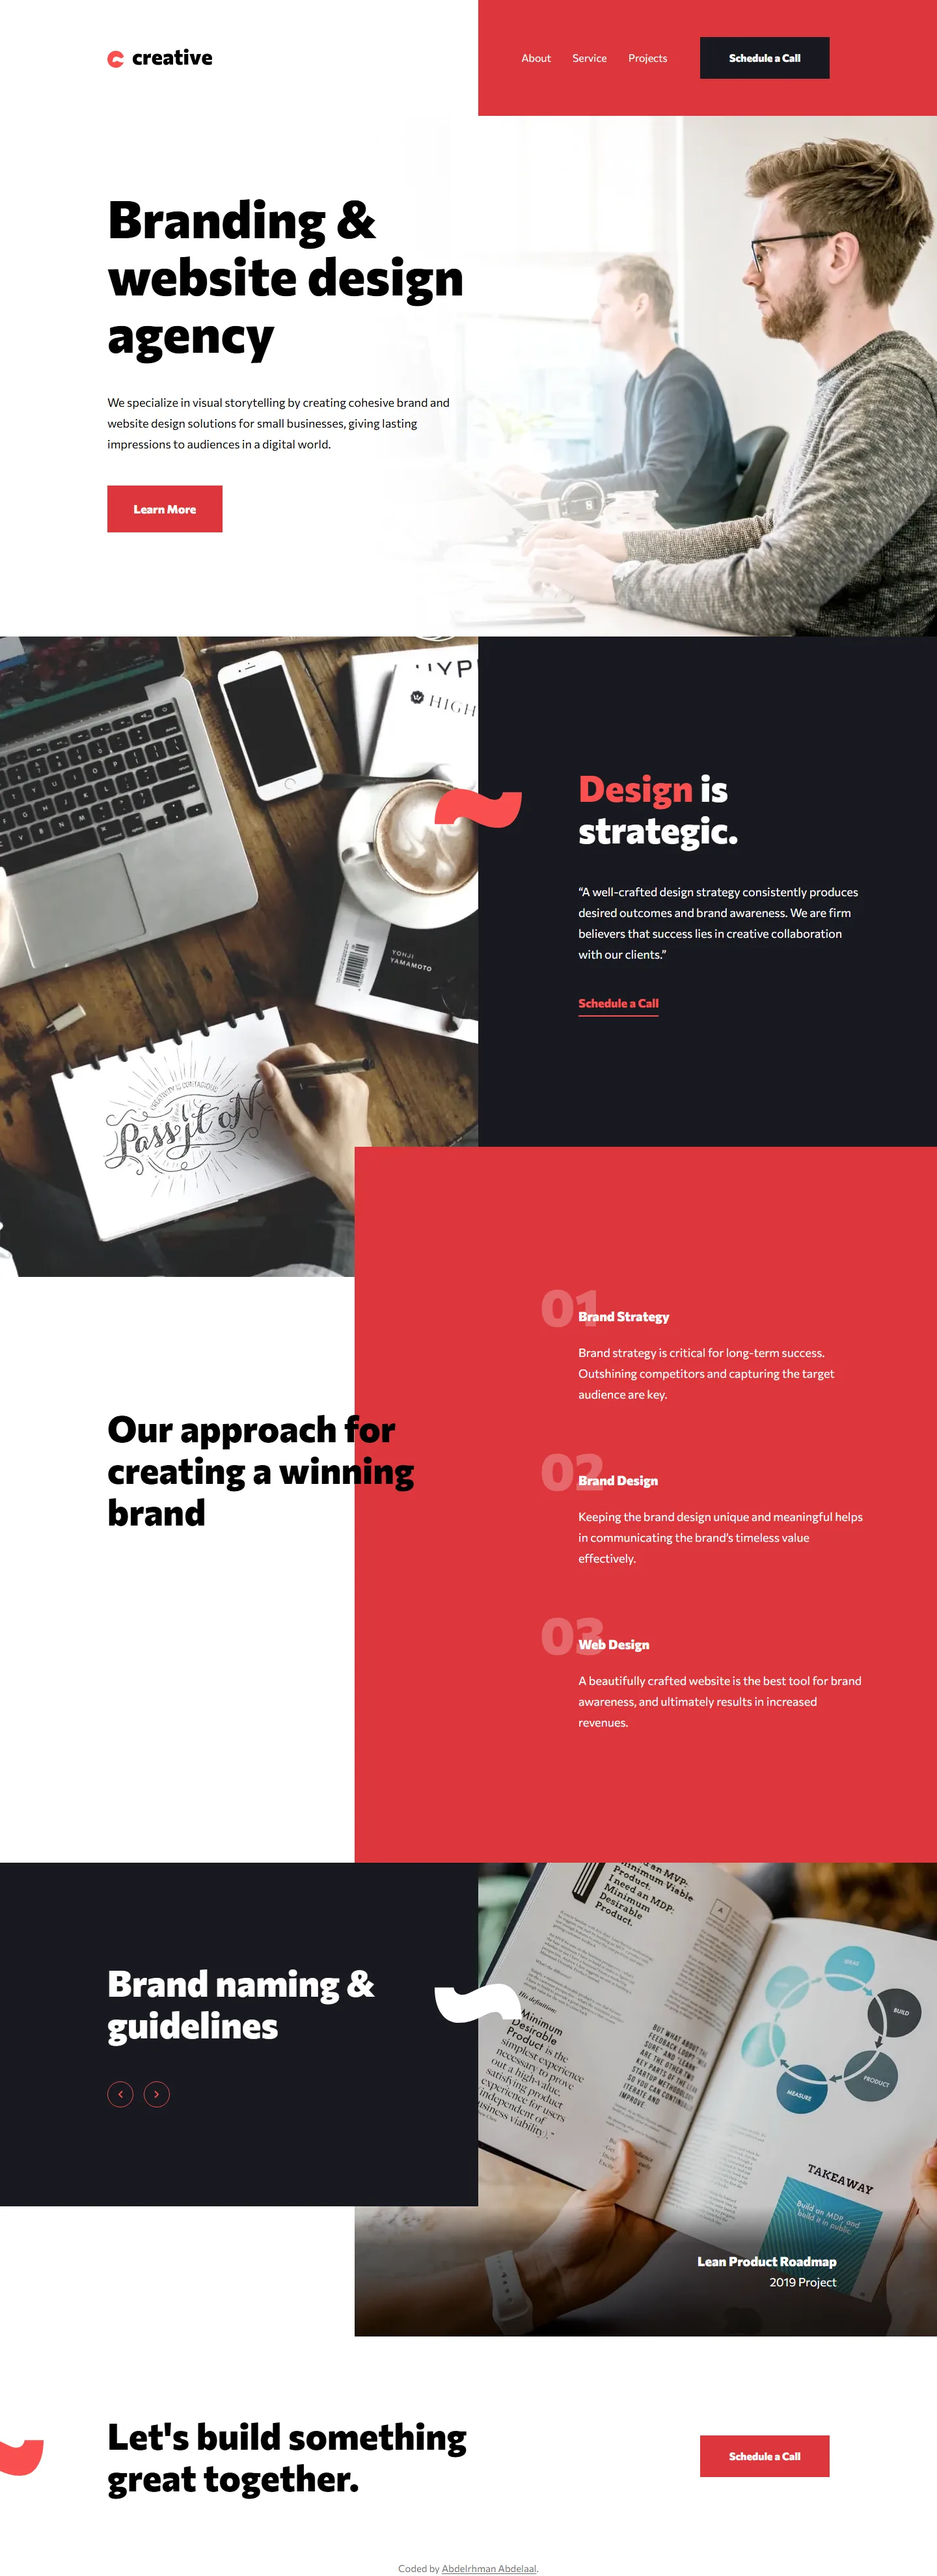
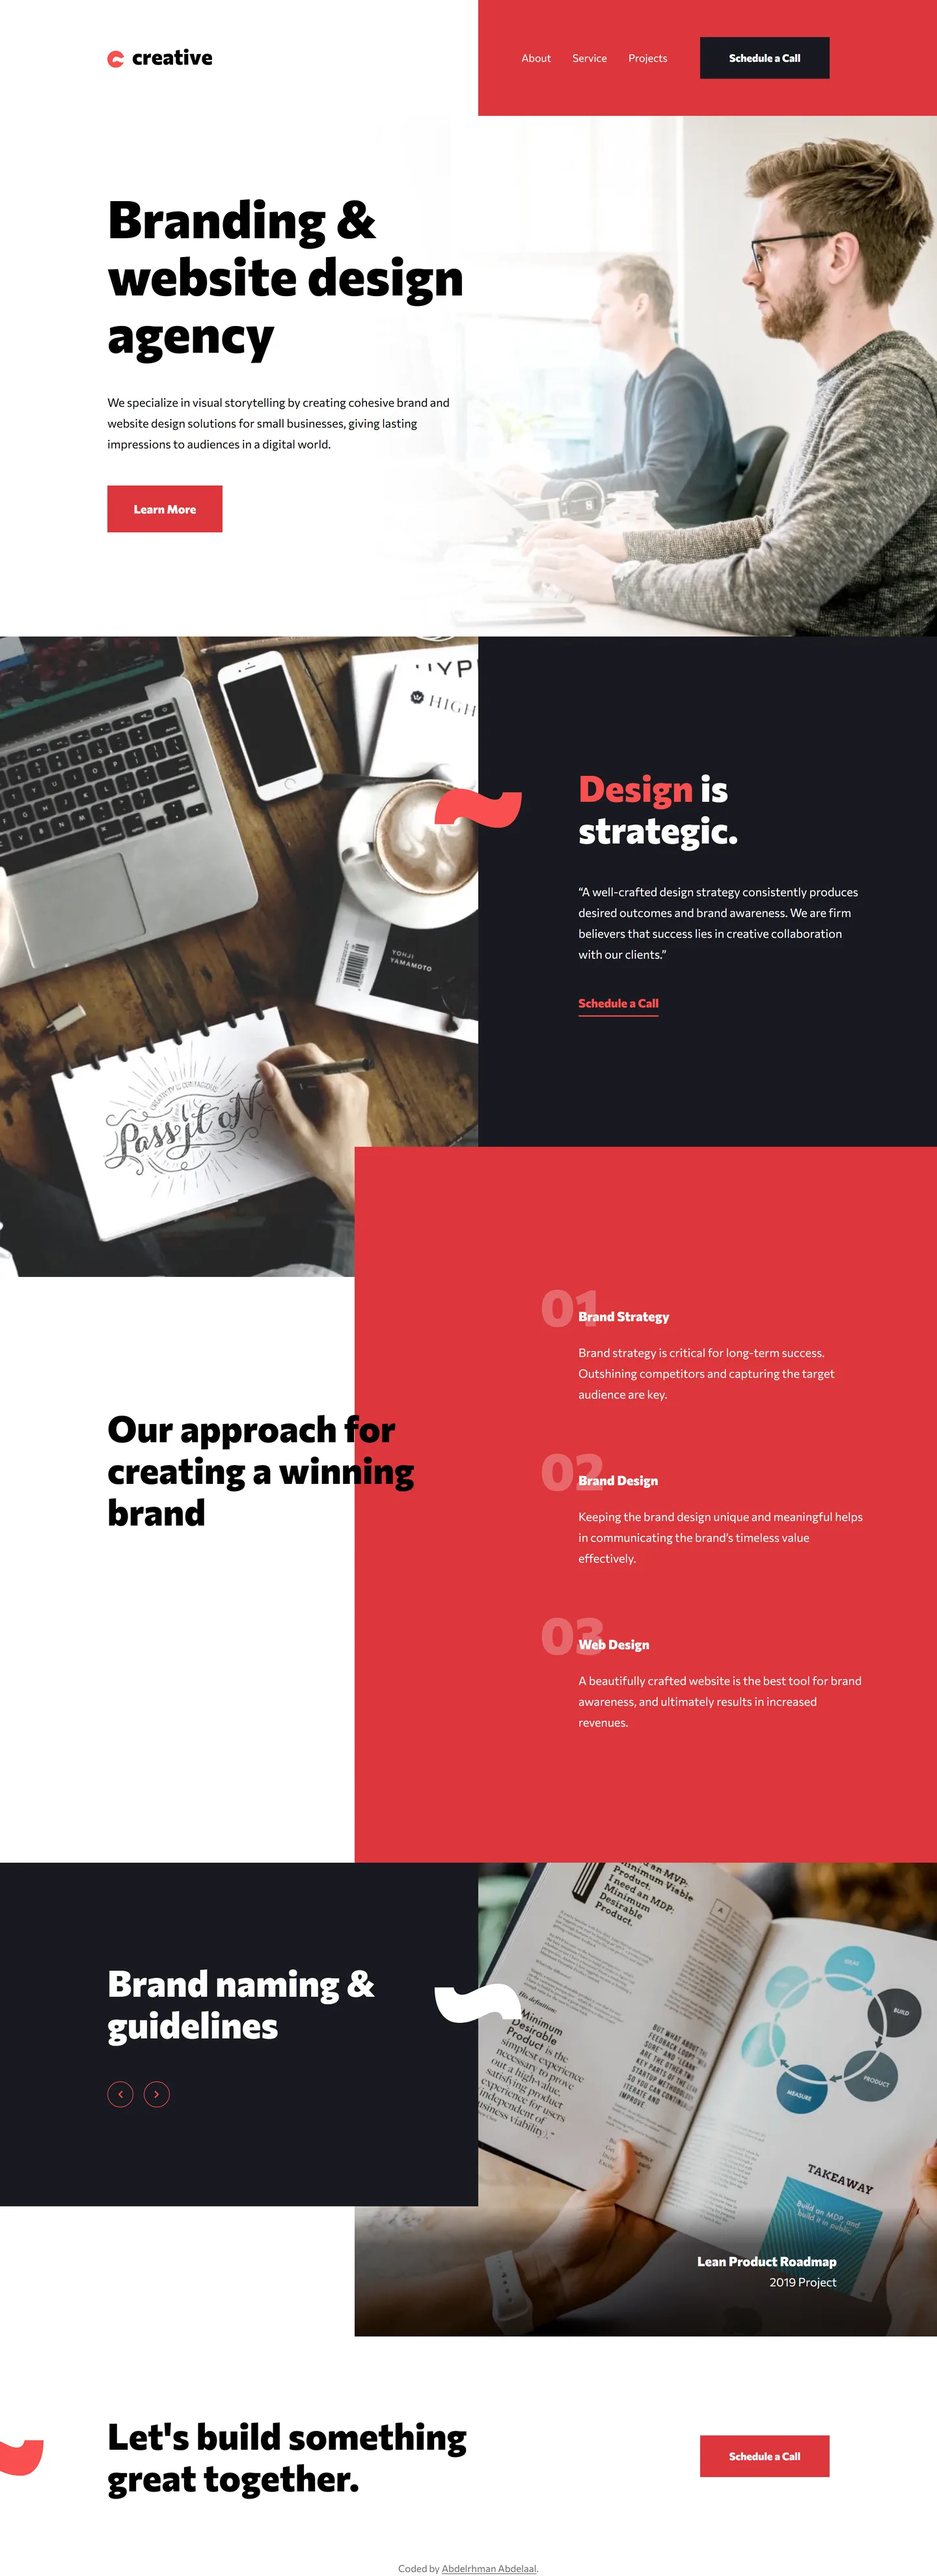
Update README with notes on JavaScript usage and project design; enhance CSS with new animations for rise and stitch effects; modify components to utilize new animations

Changed region(s): [[0.625, 0.3418, 0.7188, 0.3729], [0.8438, 0.3418, 0.875, 0.3729]]

diff --git a/src/views/home/approach.tsx b/src/views/home/approach.tsx
@@ -4,7 +4,7 @@ export default function Approach() {
   return (
     <section id="service" className="relative">
       <div className="bg-red-surface py-24 md:ml-[43%] md:py-30 lg:ml-[37.85%] lg:py-50">
-        <div className="v-container pointer-events-none md:absolute md:inset-x-0 md:top-61.5 lg:top-100">
+        <div className="v-container v-rise pointer-events-none md:absolute md:inset-x-0 md:top-61.5 lg:top-100">
           <h2 className="text-h2 lg:text-h2-lg pointer-events-auto text-white md:max-w-70.25 md:text-black lg:max-w-135">
             Our approach for creating a winning brand
           </h2>
@@ -12,7 +12,7 @@ export default function Approach() {
 
         <ol className="mt-12.25 grid gap-10 px-6 text-white md:mt-0 md:pr-[9.13%] md:pl-[9.82%] lg:gap-14 lg:pr-[11.84%] lg:pl-[31.84%]">
           {approachSteps.map(({ title, description }, index) => (
-            <li key={title} className="relative pt-11 pl-4 lg:pl-14.75">
+            <li key={title} className="v-rise relative pt-11 pl-4 lg:pl-14.75">
               <span
                 aria-hidden="true"
                 data-step={String(index + 1).padStart(2, "0")}

diff --git a/src/views/home/strategic.tsx b/src/views/home/strategic.tsx
@@ -20,11 +20,11 @@ export default function Strategic() {
           />
         </picture>
 
-        <Squiggle className="text-red absolute bottom-0 left-6 w-15.75 translate-y-1/2 md:top-40 md:bottom-auto md:left-full md:-translate-x-1/2 md:-translate-y-1/2 lg:top-66 lg:w-33.75" />
+        <Squiggle className="v-stitch text-red absolute bottom-0 left-6 w-15.75 translate-y-1/2 md:top-40 md:bottom-auto md:left-full md:-translate-x-1/2 md:-translate-y-1/2 lg:top-66 lg:w-33.75" />
       </div>
 
       <div className="bg-ink py-18 md:ml-[49.22%] md:py-30 lg:ml-[51.04%] lg:py-50">
-        <div className="px-6 text-white md:pr-[10.26%] md:pl-[17.69%] lg:pr-[15.04%] lg:pl-[21.84%]">
+        <div className="v-rise px-6 text-white md:pr-[10.26%] md:pl-[17.69%] lg:pr-[15.04%] lg:pl-[21.84%]">
           <h2 className="text-h2 lg:text-h2-lg">
             <span className="text-red">Design</span> is
             <br className="hidden md:inline lg:hidden" /> strategic.

diff --git a/src/views/home/projects.tsx b/src/views/home/projects.tsx
@@ -48,10 +48,10 @@ export default function Projects() {
           aria-hidden="true"
           className="bg-ink pointer-events-auto absolute inset-y-0 left-0 w-full md:w-[50.78%] lg:w-[51.04%]"
         >
-          <Squiggle className="absolute top-35 left-full hidden w-15.75 -translate-x-1/2 -translate-y-1/2 -scale-y-100 text-white md:block lg:top-54 lg:w-33.75" />
+          <Squiggle className="v-stitch absolute top-35 left-full hidden w-15.75 -translate-x-1/2 -translate-y-1/2 -scale-y-100 text-white md:block lg:top-54 lg:w-33.75" />
         </div>
 
-        <div className="v-container relative py-16 md:py-25 lg:py-38">
+        <div className="v-container v-rise relative py-16 md:py-25 lg:py-38">
           <h2 className="text-h2 lg:text-h2-lg pointer-events-auto text-white md:max-w-70.25 lg:max-w-111.25">
             {project.title}
           </h2>

diff --git a/src/app/globals.css b/src/app/globals.css
@@ -131,6 +131,38 @@
   }
 }
 
+@keyframes v-rise {
+  from {
+    transform: translateY(1rem);
+  }
+}
+
+@keyframes v-stitch {
+  from {
+    transform: scaleX(0);
+  }
+}
+
+@utility v-rise {
+  @media (prefers-reduced-motion: no-preference) {
+    @supports (animation-timeline: view()) {
+      animation: v-rise linear both;
+      animation-timeline: view();
+      animation-range: entry 120px entry 420px;
+    }
+  }
+}
+
+@utility v-stitch {
+  @media (prefers-reduced-motion: no-preference) {
+    @supports (animation-timeline: view()) {
+      animation: v-stitch linear both;
+      animation-timeline: view();
+      animation-range: entry 120px entry 420px;
+    }
+  }
+}
+
 @utility v-photo-fade {
   background: linear-gradient(to right, #fff, #fff0);
 }
